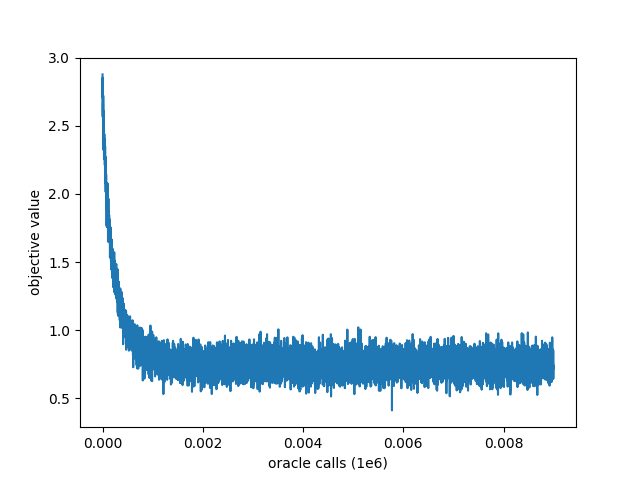
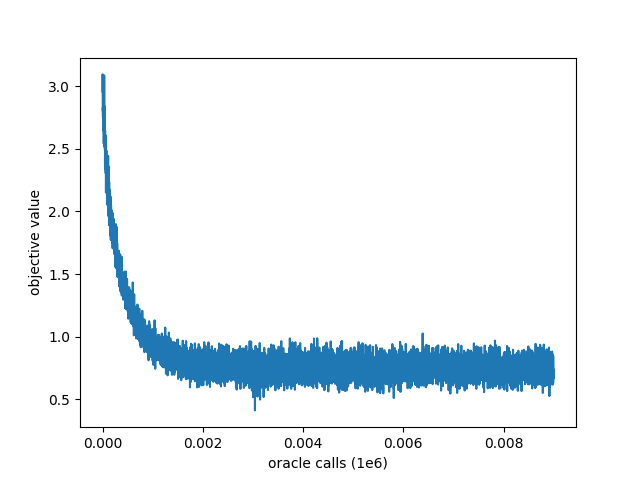
save logs in oracle instead of solvers

diff --git a/optimization/TestMain.py b/optimization/TestMain.py
@@ -25,11 +25,11 @@ def test_01():
     print("running test 1...")
 
     gd_solver = SubProblemCubicNewton(max_iter=1000, c_prime=0.0001)
-    oracle = MeanOracle(objective_function=OneDimQuad(), n1=1000, n2=1000)
+    oracle = MeanOracle(objective_function=OneDimQuad(), )
     ms = SolverCubicNewtonMiniBatch(sub_solver=gd_solver, oracle=oracle,
-                                    max_iter=2000, ro=0.0001, l=4, epsilon=1e-5)
-    thetas, objective_values= ms.run(np.random.RandomState(seed=42).rand(1))
-
+                                    max_iter=2000, ro=0.0001, l=4, epsilon=1e-5, n1=1000, n2=1000)
+    thetas= ms.run(np.random.RandomState(seed=42).rand(1))
+    objective_values=oracle.objective_values
     # plot the objective value list
     plt.plot(range(len(objective_values)),
              objective_values)
@@ -43,17 +43,21 @@ def test_02():
     print("running test 2...")
 
     gd_solver = SubProblemCubicNewton(max_iter=1000, c_prime=0.01)
-    oracle = MeanOracle(objective_function=ThreeDimQuad(), n1=10000, n2=10000)
+    oracle = MeanOracle(objective_function=ThreeDimQuad(), )
     ms = SolverCubicNewtonMiniBatch(sub_solver=gd_solver, oracle=oracle,
-                                    max_iter=2000, ro=0.001, l=4, epsilon=1e-5)
+                                    max_iter=2000, ro=0.001, l=4, epsilon=1e-5, n1=10000, n2=10000)
+    objective_values=oracle.objective_values
+
     print("best parameters", ms.run(np.random.RandomState(seed=42).rand(3)),'\n')
 
 
 def test_03():
     print("running test 3...")
-    oracle = MeanOracle(objective_function=OneDimQuad(), n1=1000, n2=1)
-    ms = SolverSGD(oracle=oracle, max_iter=9000,)
-    thetas, objective_values = ms.run(np.random.RandomState(seed=45).rand(1))
+    oracle = MeanOracle(objective_function=OneDimQuad(),)
+    ms = SolverSGD(oracle=oracle, max_iter=9000,  n1=1)
+    thetas = ms.run(np.random.RandomState(seed=45).rand(1))
+    objective_values=oracle.objective_values
+
     # plot the objective value list
     plt.clf()
     plt.plot(1e-6 * np.array(range(len(objective_values[5:]))),
@@ -68,8 +72,10 @@ def test_03():
 def test_04():
     print("running test 4...")
     oracle = StormOracle(objective_function=OneDimQuad(), k=1e-2, c_factor=100,)
-    ms = SolverStorm(oracle=oracle, max_iter=9000,)
-    thetas, objective_values = ms.run(np.random.RandomState(seed=45).rand(1))
+    ms = SolverStorm(oracle=oracle, max_iter=9000, )
+    thetas = ms.run(np.random.RandomState(seed=45).rand(1))
+    objective_values=oracle.objective_values
+
     # plot the objective value list
     plt.clf()
     plt.plot(1e-6 * np.array(range(len(objective_values[5:]))),
@@ -77,7 +83,7 @@ def test_04():
     plt.xlabel('oracle calls (1e6)')
     plt.ylabel('objective value')
     # plt.legend(['Storm', ], loc='upper right')
-    # plt.savefig("plots/OneDimQuad_SolverStorm")
+    plt.savefig("plots/OneDimQuad_SolverStorm")
     print("best parameters", thetas, '\n')
 
 
@@ -85,10 +91,12 @@ def test_05():
     print("running test 5...")
 
     gd_solver = SubProblemCubicNewton(max_iter=10, c_prime=0.1)
-    oracle = NormalNoiseOracle(objective_function=WLooking(), n1=100, n2=100)
+    oracle = NormalNoiseOracle(objective_function=WLooking(),)
     ms = SolverCubicNewtonMiniBatch(sub_solver=gd_solver, oracle=oracle,
-                                    max_iter=60000, ro=1, l=100, epsilon=1e-4, )
-    thetas, objective_values = ms.run(np.random.RandomState(seed=45).rand(2))
+                                    max_iter=60000, ro=1, l=100, epsilon=1e-4,  n1=100, n2=100)
+    thetas = ms.run(np.random.RandomState(seed=45).rand(2))
+    objective_values=oracle.objective_values
+
     # plot the objective value list
     plt.clf()
     plt.plot(1e-4*np.array(range(len(objective_values)))[150:600],
@@ -104,7 +112,9 @@ def test_06():
 
     oracle = NormalNoiseOracle(objective_function=WLooking(), n1=100, n2=100)
     ms = SolverSGD( oracle=oracle, max_iter=60000, lr=1e-3)
-    thetas, objective_values= ms.run(np.random.RandomState(seed=45).rand(2))
+    thetas= ms.run(np.random.RandomState(seed=45).rand(2))
+    objective_values=oracle.objective_values
+
     # plot the objective value list
     plt.clf()
     plt.plot(1e-4*np.array(range(len(objective_values)))[150:600],
@@ -120,20 +130,23 @@ def test_06():
 def test_07():
     print("running test 7...")
 
-    oracle = MeanOracle(objective_function=OneDimQuad(), n1=1, n2=1)
-    ms = GradientLeastSquares( oracle=oracle, j1=50, j2=50, l=0.1, alpha=0.70, max_iter=1000)
-    thetas, objective_values= ms.run(np.random.RandomState(seed=45).rand(1))
+    oracle = MeanOracle(objective_function=OneDimQuad(), )
+    ms = GradientLeastSquares( oracle=oracle, j1=50, j2=50, l=0.1, alpha=0.70, max_iter=1000,)
+    thetas= ms.run(np.random.RandomState(seed=45).rand(1))
+    objective_values=oracle.objective_values
+
     # plot the objective value list
-    # plt.clf()
-    # plt.plot(1e-4*np.array(range(len(objective_values)))[150:600],
-    #          objective_values[150:600])
-    #
-    # plt.xlabel('oracle calls (1e6)')
-    # plt.ylabel('objective value')
-    # plt.legend(['GradientLeastSquares'], loc='upper right')
-    # plt.savefig("plots/OneDimQuad_GradientLeastSquares")
+    plt.clf()
+    plt.plot(1e-4*np.array(range(len(objective_values)))[150:600],
+             objective_values[150:600])
+
+    plt.xlabel('oracle calls (1e6)')
+    plt.ylabel('objective value')
+    plt.legend(['GradientLeastSquares'], loc='upper right')
+    plt.savefig("plots/OneDimQuad_GradientLeastSquares")
     print("best parameters",thetas ,'\n')
 
 
 # test_05()
-test_07()
+test_03()
+test_04()

diff --git a/optimization/solvers/GradientLeastSquares.py b/optimization/solvers/GradientLeastSquares.py
@@ -38,7 +38,6 @@ class GradientLeastSquares(Solver):
 
     def run(self, x_t, **kwargs):
         print("GradientLeastSquares optimizing... ")
-        objective_value_list = []
         for i in range(self.max_iter):
 
             x_js = self.get_x_js(x_t)
@@ -48,10 +47,9 @@ class GradientLeastSquares(Solver):
             # compute lipschitz part of the right hand side of the equation Ad=c
             lips_sum = 0
             for j in range(self.j1):
-                self.oracle.update_sample()
+                self.oracle.update_sample(x_t)
                 objective_value_x_j, _, _, _ = self.oracle.compute_oracle(x_js[j], )
                 objective_value_x_t, _, _, _ = self.oracle.compute_oracle(x_t, )
-                objective_value_list.append(objective_value_x_t)
                 lips_sum += objective_value_x_j - objective_value_x_t - self.l * np.linalg.norm(x_js[j] - x_t,
                                                                                                 ord=2) ** 2
             b = self.alpha / self.j1 * lips_sum
@@ -59,9 +57,8 @@ class GradientLeastSquares(Solver):
             # compute mean of gradient estimate of the right hand side of the equation Ad=c
             gradient_sum = np.zeros(x_t.shape)
             for j in range(self.j2):
-                self.oracle.update_sample()
+                self.oracle.update_sample(x_t)
                 objective_value_x_t, g_t, _, _ = self.oracle.compute_oracle(x_t, )
-                objective_value_list += [objective_value_x_t] * self.n1
                 gradient_sum += g_t
             b += (1 - self.alpha) / self.j2 * gradient_sum
             # Create linear regression object
@@ -72,4 +69,4 @@ class GradientLeastSquares(Solver):
             delta = np.linalg.lstsq(A, b, rcond=None)[0]
             x_t = x_t - self.lr * delta
 
-        return x_t, objective_value_list
+        return x_t

diff --git a/optimization/solvers/SolverCubicNewtonMiniBatch.py b/optimization/solvers/SolverCubicNewtonMiniBatch.py
@@ -17,20 +17,15 @@ class SolverCubicNewtonMiniBatch(Solver):
 
     def run(self, x_t, **kwargs):
         print("SolverCubicNewtonMiniBatch optimizing... ")
-        objective_value_list = []
         for i in range(self.max_iter):
             print("iteration= ", i)
-            self.oracle.update_sample()
-            objective_value, g_t, B_t, _ = self.oracle.compute_oracle(x_t, )
-            objective_value_list.append(objective_value)
-            print("iteration1= ", i)
+            self.oracle.update_sample(x_t)
+            _, g_t, B_t, _ = self.oracle.compute_oracle(x_t, )
             delta, delta_m = self.sub_solver.solve(g_t, B_t, self.epsilon, self.ro, self.l)
-            print("iteration2= ", i)
-
             x_t1 = x_t + delta
             if delta_m >= -(self.epsilon ** 3 / self.ro) ** 0.5 / 100:
                 delta = self.sub_solver.final_solve(g_t, B_t, self.epsilon, self.ro, self.l)
-                return x_t + delta, np.array(objective_value_list)
+                return x_t + delta
             x_t = x_t1
 
-        return x_t, np.array(objective_value_list)
+        return x_t

diff --git a/optimization/utils/StochasticOracle.py b/optimization/utils/StochasticOracle.py
@@ -28,6 +28,7 @@ class StochasticOracle(ABC):
         self.s2 = None
         self.n1 = None
         self.n2 = None
+        self.objective_values = []
 
     def set_oracle_sample_size(self,
                                n1: int,
@@ -52,7 +53,9 @@ class StochasticOracle(ABC):
         """
         pass
 
-    def update_sample(self, ):
+    def update_sample(self,
+                      x_t: np.ndarray,
+                      ):
         """
         update the samples in Oracle class ( self.s1 and self.s2 )
 
@@ -63,3 +66,5 @@ class StochasticOracle(ABC):
             raise ValueError('Please set oracle sample size n1 and n2!')
 
         self.s1, self.s2 = self.objective_function.get_samples(self.n1, self.n2)
+        tem_s1, _ = self.objective_function.get_samples(1000, 0)
+        self.objective_values += [self.objective_function.forward(x_t, tem_s1).mean(axis=0)] * self.n1

diff --git a/optimization/solvers/SolverStorm.py b/optimization/solvers/SolverStorm.py
@@ -16,11 +16,9 @@ class SolverStorm(Solver):
 
     def run(self, x_t, **kwargs):
         print("SolverStorm optimizing... ")
-        objective_value_list = []
         for i in range(self.max_iter):
-            self.oracle.update_sample()
+            self.oracle.update_sample(x_t)
             objective_value, g_t, _, eta = self.oracle.compute_oracle(x_t, )
-            objective_value_list.append(objective_value)
             x_t = x_t - eta * g_t
 
-        return x_t, np.array(objective_value_list)
+        return x_t

diff --git a/optimization/solvers/SolverSGD.py b/optimization/solvers/SolverSGD.py
@@ -23,10 +23,8 @@ class SolverSGD(Solver):
 
     def run(self, x_t, **kwargs):
         print("SolverSGD optimizing... ")
-        objective_value_list = []
         for i in range(self.max_iter):
-            self.oracle.update_sample()
+            self.oracle.update_sample(x_t)
             objective_value, g_t, _, _ = self.oracle.compute_oracle(x_t, )
-            objective_value_list.append(objective_value)
             x_t = x_t - self.lr * g_t
-        return x_t, np.array(objective_value_list)
+        return x_t
